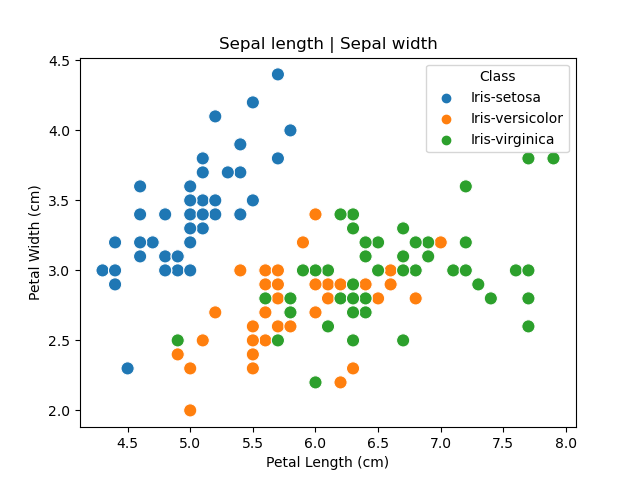
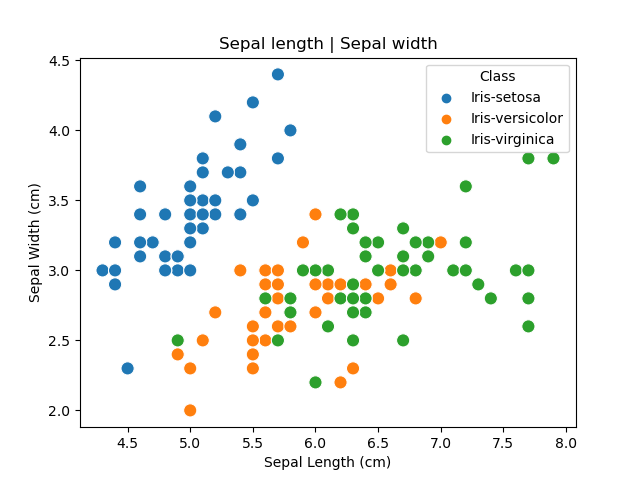
Fixed up some typos and comments

Changed region(s): [[0.4062, 0.9375, 0.625, 1.0], [0.0312, 0.375, 0.0625, 0.625]]

diff --git a/analysis.py b/analysis.py
@@ -89,7 +89,7 @@ outputs.append(output_data)
 sepal_l = []
 for iris in iris_csv['Sepal Length']:
     sepal_l.append(iris)
-#Sort the lsit before creating the histogram
+#Sort the list before creating the histogram
 sepal_l.sort()
 #Add title and labels
 plt.title("Sepal Length")
@@ -98,7 +98,7 @@ plt.ylabel("Frequency")
 plt.hist(sepal_l)
 #Save the file
 plt.savefig("Sepal_Length_Histogram.png")
-#Wtite to the text file
+#Write to the text file
 data = "\n\tSepal_Length_Histogram.png"
 text_write(data)
 
@@ -114,7 +114,7 @@ plt.xlabel("Width (cm)")
 plt.ylabel("Frequency")
 plt.hist(sepal_w)
 plt.savefig("Sepal_Width_Histogram.png")
-#Wtite to the text file
+#Write to the text file
 data = "\n\tSepal_Width_Histogram.png"
 text_write(data)
 
@@ -129,7 +129,7 @@ plt.xlabel("Length (cm)")
 plt.ylabel("Frequency")
 plt.hist(petal_l)
 plt.savefig("Petal_Length_Histogram.png")
-#Wtite to the text file
+#Write to the text file
 data = "\n\tPetal_Length_Histogram.png"
 text_write(data)
 
@@ -144,7 +144,7 @@ plt.xlabel("Width (cm)")
 plt.ylabel("Frequency")
 plt.hist(petal_w)
 plt.savefig("Petal_Width_Histogram.png")
-#Wtite to the text file
+#Write to the text file
 data = "\n\tPetal_Width_Histogram.png"
 text_write(data)
 
@@ -156,7 +156,7 @@ plt.xlabel('Sepal length (cm)')
 plt.ylabel('Sepal Width (cm)')
 #plt.legend()
 plt.savefig("Sepal_Length_Sepal_Width_Scatterplot.png")
-#Wtite to the text file
+#Write to the text file
 data = "\n\tSepal_Length_Sepal_Width_Scatterplot.png"
 text_write(data)
 
@@ -168,38 +168,40 @@ plt.xlabel('Petal length (cm)')
 plt.ylabel('Petal Width (cm)')
 #plt.legend()
 plt.savefig("Petal_Length_Petal_Width_Scatterplot.png")
-#Wtite to the text file
+#Write to the text file
 data = "\n\tPetal_Length_Petal_Width_Scatterplot.png"
 text_write(data)
 
-#Scatterplots using seaborn with colours for each flower type
+#Create Scatterplots using seaborn with colours for each flower type
+#Petal Length and Petal Width comparison
 plt.clf()
 #Define the data for x and y axis
 x_axis = iris_csv['Petal Length']
 y_axis = iris_csv['Petal Width']
-#Add a title and lables
+#Add a title and labels
 plt.title("Petal length | Petal Width")
 plt.xlabel('Petal Length (cm)')
 plt.ylabel('Petal Width (cm)')
 #Create and save the plot
 sns.scatterplot(x=x_axis, y=y_axis, hue=iris_csv.Class, s=90)
 plt.savefig("Petal_Length_Petal_Width_Scatterplot_Seaborn.png")
-#Wtite to the text file
+#Write to the text file
 data = "\n\tPetal_Length_Petal_Width_Scatterplot - by flower type.png"
 text_write(data)
 
+#Sepal Length and Sepal Width comparison
 plt.clf()
 #Define the data for x and y axis
 x_axis = iris_csv['Sepal Length']
 y_axis = iris_csv['Sepal Width']
-#Add a title and lables
+#Add a title and labels
 plt.title("Sepal length | Sepal width")
 plt.xlabel('Sepal Length (cm)')
 plt.ylabel('Sepal Width (cm)')
 #Create and save the plot
 sns.scatterplot(x=x_axis, y=y_axis, hue=iris_csv.Class, s=90)
 plt.savefig("Sepal_Length_Sepal_Width_Scatterplot_Seaborn.png")
-#Wtite to the text file
+#Write to the text file
 data = "\n\tSepal_Length_Sepal_Width_Scatterplot - by flower type.png"
 text_write(data)
 
@@ -222,11 +224,11 @@ plt.hist(iris_virginica["Petal Length"],label='iris_virginica')
 plt.hist(iris_versicolor["Petal Length"],label='iris_versicolor')
 plt.legend()
 plt.savefig("Petal_Length_Comparison_Histogram.png")
-#Wtite to the text file
+#Write to the text file
 data = "\n\tPetal_Length_Comparison_Histogram.png"
 text_write(data)
 
-#Plotting a Heatmap using seaborn to show correlation with inspiration taken from the following sources:
+#Plotting a Heatmap using seaborn to show correlations with inspiration taken from the following sources:
 #https://practicaldatascience.co.uk/data-science/how-to-calculate-pearson-correlation-in-pandas
 #https://blog.quantinsti.com/creating-heatmap-using-python-seaborn/
 #https://www.geeksforgeeks.org/exploratory-data-analysis-on-iris-dataset/
@@ -236,7 +238,7 @@ iris_csv_sns = iris_csv.drop("Class", axis=1)
 sns.heatmap(iris_csv_sns.corr(method='pearson'), cmap="YlGnBu", annot=True); 
 plt.title("Heatmap - Pearsons Correllation")
 plt.savefig("Correlation_Heatmap.png")
-#Wtite to the text file
+#Write to the text file
 data = "\n\tCorrelation_Heatmap.png\n\n"
 text_write(data)
 
@@ -251,7 +253,7 @@ output_data = (f"Writing Person's Correlation data to {FILENAME}")
 outputs.append(output_data)
 
 #Append the current completed action to the outputs list for printing upon script completion
-output_data = (f"Finished writing to {FILENAME}")
+output_data = (f"Script complete and finished writing to {FILENAME}")
 outputs.append(output_data)
 
 #Print the output list which informs the user what the script has done

diff --git a/README.md b/README.md
@@ -119,7 +119,7 @@ We can see a very linear progression of Petal Length and Petal Width indicating 
 However we also see that the Sepal Width and Sepal Length scatterplot is a lot less linear which indicates little or no relationship between the two variables.
 
 To expand on these scatterplots we create two new plots showing the breakdown by flower type. From the Petal analysis we can see that all three flower types follow a linear progression and that the Iris_setosa is by far the smaller flower with all of it's data points clustered in a small area. In contrast, the Iris-virginica is the largest flower, with the Iris-versicolor sitting in the middle however there is some over lap between the two.
-The Sepal analysis by flower type again shows the Iris-setosa out on its own but still showing a linear progression. It can be seen that the Iris-setosa has some of the smallest Sepal Lengths but also some of the largest Sepal Widths. The Iris-virginica and Iris-versicolor show a linear progression to a lesser degree and tend to over lap quite a bit. They also tend to have more outliers than the Iris-setosa.
+The Sepal analysis by flower type again shows the Iris-setosa out on its own but still showing a linear progression. It can be seen that the Iris-setosa has some of the smallest Sepal Lengths but also some of the largest Sepal Widths. The Iris-virginica and Iris-versicolor show a linear progression to a lesser degree and tend to over lap quite a bit. They also tend to have more outliers than the Iris-setosa. 
 
 ## 4.4. Heatmaps   
 Finally, using the features of Seaborn we plot a heatmap. We use this heatmap to represent the correlation (Pearson's) between the variables Petal Length, Petal Width, Sepal Length and Sepal Width. This shows the strength of the relationships between each variable. The Heatmap is colour coordinated with the darker blue squares showing a strong relationship and the lighter yellow squares showing a weak relationship. 
